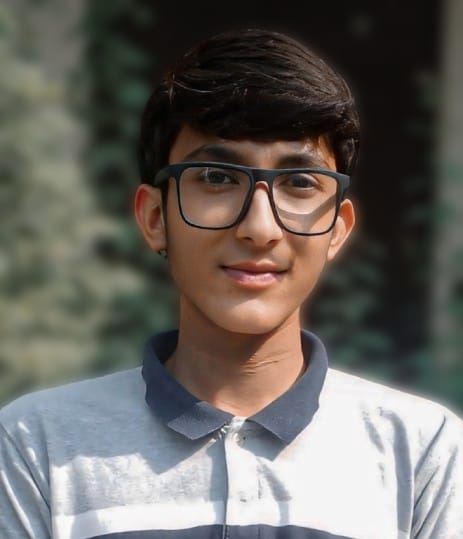
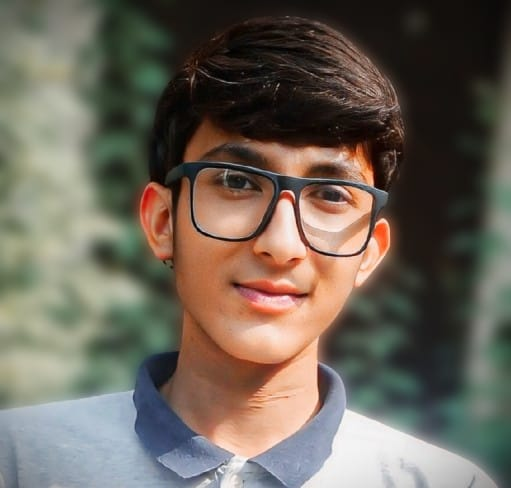
fixed name issue of navbar

diff --git a/src/components/About/About.jsx b/src/components/About/About.jsx
@@ -27,7 +27,7 @@ const About = () => {
                         words={[
                             'React. js Developer',
                             'Frontend web Developer',
-                            'Javascript Enthusiast',
+                            'Mern Stack Developer',
                             'Responsive Design Expert'
                         ]}
                         loop={0}
@@ -40,7 +40,7 @@ const About = () => {
                 </h3>
                 {/* About me paragraph */}
                 <p className='text-base sm:text-lg md:text-lg lg:text-2xl text-gray-400 mt-8'>
-                  I’m a passionate front-end developer with 2 years of experience creating clean, user-friendly websites. Skilled in React.js, Tailwind CSS, and modern JavaScript, I transform ideas into interactive digital experiences. I love learning, solving challenges, and building projects that make an impact about both visual appeal and functionality.
+                  I’m a passionate Mern Stack Developer with 1.5 years of experience creating clean, user-friendly websites. Skilled in React.js, Tailwind CSS,Bootstrap,Node.js,Express.js,python,FastApi and modern JavaScript, I transform ideas into interactive digital experiences. I love learning, solving challenges, and building projects that make an impact about both visual appeal and functionality.
                 </p>
                 {/* Resume Button */}
                 <a 
